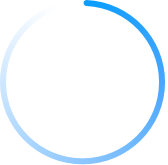
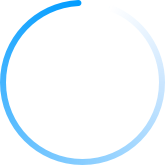
update loading asset.  add room check debug option

Changed region(s): [[0.0, 0.0, 1.0, 1.0]]

diff --git a/SleepModel/HEMDebugController.m b/SleepModel/HEMDebugController.m
@@ -15,12 +15,15 @@
 #import "HEMSupportUtil.h"
 #import "HEMOnboardingUtils.h"
 #import "HEMOnboardingCache.h"
+#import "HEMOnboardingStoryboard.h"
+#import "HEMStyledNavigationViewController.h"
 
 @interface HEMDebugController()<MFMailComposeViewControllerDelegate>
 
 @property (weak,   nonatomic) UIViewController*   presentingController;
 @property (strong, nonatomic) HEMActionSheetController* supportOptionController;
 @property (strong, nonatomic) HEMActionSheetController* ledOptionController;
+@property (weak,   nonatomic) UIViewController* roomCheckViewController;
 
 @end
 
@@ -49,6 +52,7 @@
     [self addContactSupportOptionTo:sheet];
     [self addResetCheckpointOptionTo:sheet];
     [self addLedOptionTo:sheet];
+    [self addRoomCheckOptionTo:sheet];
     [self addCancelOptionTo:sheet];
     
     [self setSupportOptionController:sheet]; // need to hold on to it otherwise action callbacks will crash
@@ -147,6 +151,39 @@
         }
         
     }];
+}
+
+#pragma mark Room Check
+
+- (void)addRoomCheckOptionTo:(HEMActionSheetController*)sheet {
+    __weak typeof(self) weakSelf = self;
+    [sheet addActionWithText:NSLocalizedString(@"debug.option.room-check.title", nil) block:^{
+        __strong typeof(weakSelf) strongSelf = weakSelf;
+        if (strongSelf) {
+            [strongSelf showRoomCheckController];
+            [strongSelf setSupportOptionController:nil];
+        }
+    }];
+}
+
+- (void)showRoomCheckController {
+    UIViewController* rcVC = [HEMOnboardingStoryboard instantiateRoomCheckViewController];
+    UINavigationController* nav = [[HEMStyledNavigationViewController alloc] initWithRootViewController:rcVC];
+    [[self presentingController] presentViewController:nav animated:YES completion:nil];
+
+    [self setRoomCheckViewController:nav];
+    [[NSNotificationCenter defaultCenter] addObserver:self
+                                             selector:@selector(didEndRoomCheck:)
+                                                 name:HEMOnboardingNotificationComplete
+                                               object:nil];
+}
+
+- (void)didEndRoomCheck:(NSNotification*)notification {
+    if ([self roomCheckViewController] != nil) {
+        [[self presentingController] dismissViewControllerAnimated:YES completion:nil];
+        [self setRoomCheckViewController:nil];
+    }
+    [[NSNotificationCenter defaultCenter] removeObserver:self name:HEMOnboardingNotificationComplete object:nil];
 }
 
 #pragma mark Cancel
